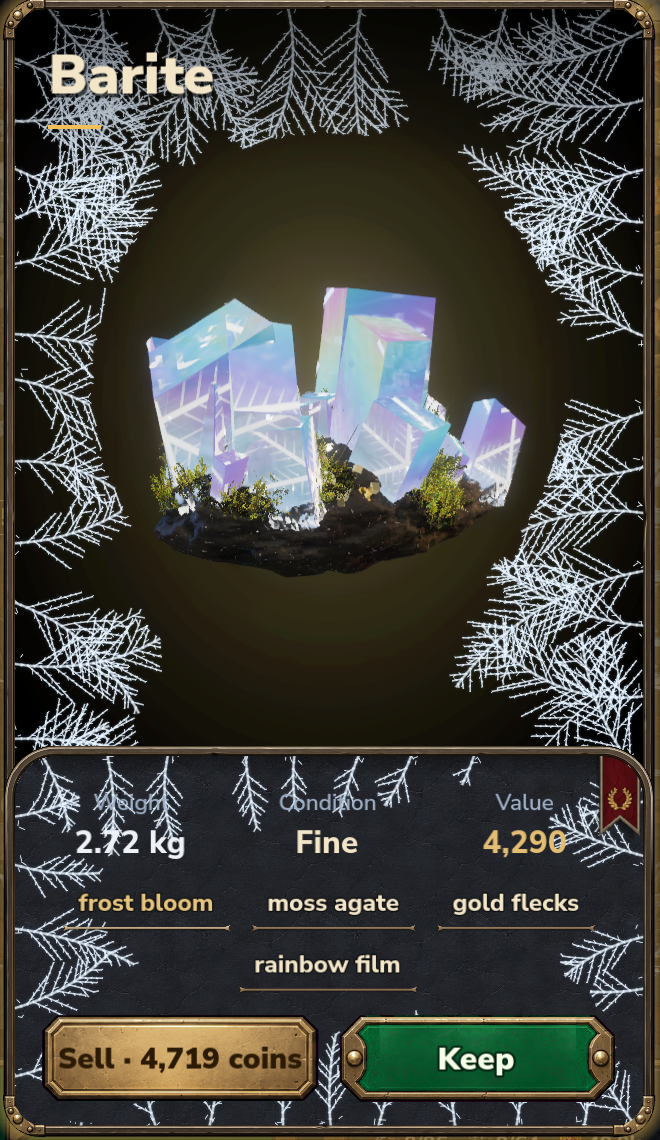
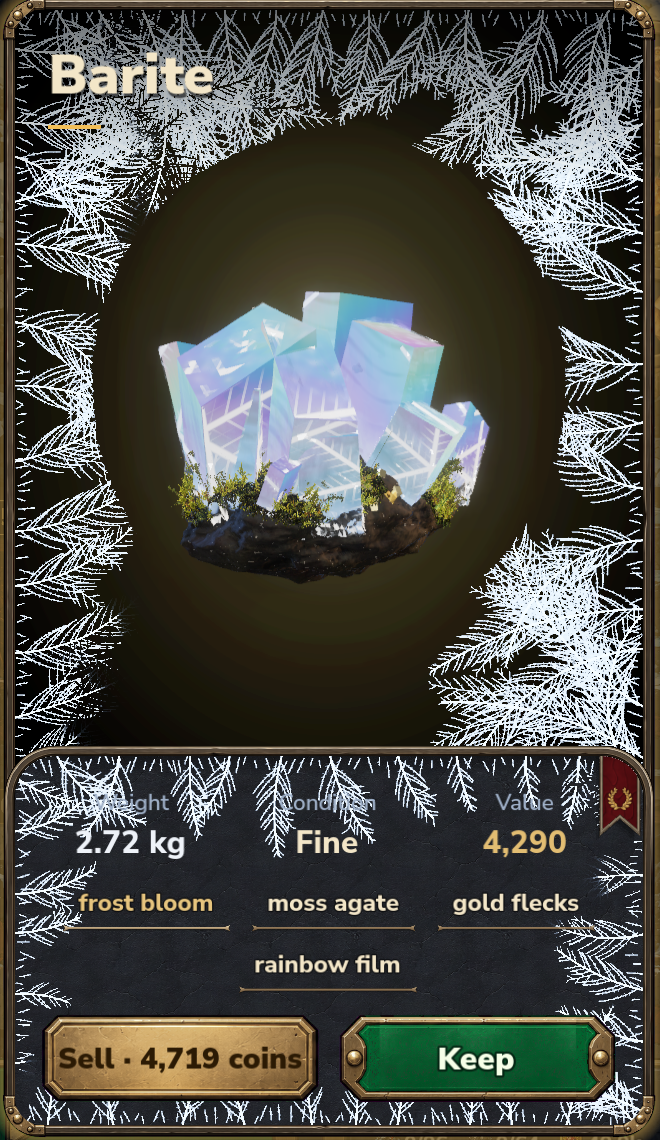
Иней кодом: рисуется в текстуру раз за цикл, проявляется шейдером со свечением — густо, как фото

diff --git a/CLAUDE.md b/CLAUDE.md
@@ -71,7 +71,7 @@
 - Руда и железо рудника — на разных цветах фишек (`AREAS[].ore.iron` ≠ `local`): иначе железа нет вовсе (Proval до 20.11).
 
 ## Что дальше
-- 22.11 (`fixes`), **иней вылезает из камня на карточку** (второе из «легендарный эффект вылезает за карточку»; только украшение — первый заход с замерзающими кнопками и протиранием пальцем пользователь отклонил): у находки с frost bloom (`SpecPolar.frost`, камни Провала) время от времени по основе карточки от латунного обода внутрь нарастают ледяные узоры — по циклу инея на самом камне (мета `frost` = [фаза, период] у корня находки, студия передаёт её дальше — `SpecStudio`): растут, держатся, тают пятнами вместе с ним. Не дальше каймы (`CAP` 0,3): по краям вокруг камня и по краю инфо-панели, камень в чистом овале. Иней только на «основе»: два слоя под содержимым карточки — над картинкой камня под именем, тенью, ✕ и выносками (`SpecView._img` +1), над сланцем панели под надписями и кнопками (на всю панель до её скруглённого края, как сам сланец: контейнер панели клал слой внутрь своих отступов — иней начинался прямоугольником внутри панели, затем панель — своя зона: иней растёт от всех четырёх её сторон по её собственной рамке, кайма уже — 75 pt вместо 150, надписи чистые, а зона камня считается от краёв карточки, как раньше; шейдер `zone` 0/1; до/после — `art/card_frost_panel_ba.png`); Затем узор растёт от рамки к центру (пользователь: фото-иней, проявленный у края, давал островки и листья кончиками к рамке): вместо фото — полоса инея, растущего от нижнего края вверх (GPT `art/frost_card/gen_strip.sh` → `strip_a.png`, в игре `assets/fx/frost_strip.png`, бесшовная по горизонтали), уложена вдоль каждой из четырёх сторон зоны корнями на рамку; рост — открытие полосы от корня к кончикам, длина вдоль стороны волнами, кончики растворяются; таяние — пятнами по всей зоне, сначала внутреннее (по сторонам отдельно оно резало квадратные дыры на стыках сторон; ранний `return` до чтения текстуры тоже давал квадратные обрывы — выбор мипмапа). Глубина полосы 190 pt у камня, 76 на панели. До/после — `art/card_frost_edge_ba.png`. Затем (пользователь: «прямоугольники в паттерне роста», «рост асимметричным»): иней растёт вдоль самих листьев — в зелёном канале полосы карта «дальности по инею от корня» (посчитана по картинке: путь через иней стоит 1, через пустое стекло 4 — к каждому кусочку инея через ближайший лист), фронт идёт по листьям, кончики последними; таяние — тот же рост назад (таяние пятнами шума резало квадратные дыры — ячейки шума); у каждой стороны каждой зоны свой момент начала, скорость и точка вдоль рамки, откуда рост расходится (`sd`, `ss`, `sa`, новые на каждый цикл — `CardFrost._reroll`). Проверка шейдера вне игры — разовый `$TEMP/emu.py`. Ролик — `art/card_frost.mp4`. Затем (пользователь: «нарисовать узоры кодом — больше контроля») иней рисуется кодом: `FrostFronds` (`specimen/frost_fronds.gd`, все ручки — словарь `P`): от точек рамки зоны (через ~34 pt) растёт лист — изогнутый стебель (`curl`), «перо» из частых боковых веточек по очереди в стороны, к кончику короче (`vane_*`), на них зубчики (`barb_*`), изредка боковая ветка сама лист (`sub_*`), у рамки изморозь; у каждого кусочка свой момент появления (старт стороны + путь по инею от корня / скорость), рост и таяние — срез отсортированных отрезков (6 вызовов `draw_multiline`: 3 толщины × ореол и линия); у каждой стороны свой старт, скорость и точка разбега (`late`, `pace`, `spread`), новые листья на каждый цикл; зона камня — от левой, верхней и правой сторон, овал камня свободен. Прежний вид (полоса-фото через шейдер) — ключ `frost_photo`. Цикл считается по кадрам игры (`CardFrost._now`), а не по часам: в записи он раньше проскакивал. Кадр — `art/card_frost_code.png`. узор один на оба, в координатах карточки (`origin`, `rsize`). `CardFrost` (`specimen/card_frost.gd`), шейдер `shaders/card_frost.gdshader`; узоры — фото-иней от GPT (`art/frost_card/gen.sh` → `frost_a.png`), в игре `assets/fx/frost_ferns.png`: R — иней, G — его плотность (крупные массы растут раньше), B — плавный шум фронта и таяния. Ключ `frost_period=S` — цикл S с, с начала: `-- save=uitest quiet area=4 reveal=301 sid=barite kind=crystal legend=frost frost_period=8`. Ролик — `art/card_frost.mp4`.
+- 22.11 (`fixes`), **иней вылезает из камня на карточку** (второе из «легендарный эффект вылезает за карточку»; только украшение — первый заход с замерзающими кнопками и протиранием пальцем пользователь отклонил): у находки с frost bloom (`SpecPolar.frost`, камни Провала) время от времени по основе карточки от латунного обода внутрь нарастают ледяные узоры — по циклу инея на самом камне (мета `frost` = [фаза, период] у корня находки, студия передаёт её дальше — `SpecStudio`): растут, держатся, тают пятнами вместе с ним. Не дальше каймы (`CAP` 0,3): по краям вокруг камня и по краю инфо-панели, камень в чистом овале. Иней только на «основе»: два слоя под содержимым карточки — над картинкой камня под именем, тенью, ✕ и выносками (`SpecView._img` +1), над сланцем панели под надписями и кнопками (на всю панель до её скруглённого края, как сам сланец: контейнер панели клал слой внутрь своих отступов — иней начинался прямоугольником внутри панели, затем панель — своя зона: иней растёт от всех четырёх её сторон по её собственной рамке, кайма уже — 75 pt вместо 150, надписи чистые, а зона камня считается от краёв карточки, как раньше; шейдер `zone` 0/1; до/после — `art/card_frost_panel_ba.png`); Затем узор растёт от рамки к центру (пользователь: фото-иней, проявленный у края, давал островки и листья кончиками к рамке): вместо фото — полоса инея, растущего от нижнего края вверх (GPT `art/frost_card/gen_strip.sh` → `strip_a.png`, в игре `assets/fx/frost_strip.png`, бесшовная по горизонтали), уложена вдоль каждой из четырёх сторон зоны корнями на рамку; рост — открытие полосы от корня к кончикам, длина вдоль стороны волнами, кончики растворяются; таяние — пятнами по всей зоне, сначала внутреннее (по сторонам отдельно оно резало квадратные дыры на стыках сторон; ранний `return` до чтения текстуры тоже давал квадратные обрывы — выбор мипмапа). Глубина полосы 190 pt у камня, 76 на панели. До/после — `art/card_frost_edge_ba.png`. Затем (пользователь: «прямоугольники в паттерне роста», «рост асимметричным»): иней растёт вдоль самих листьев — в зелёном канале полосы карта «дальности по инею от корня» (посчитана по картинке: путь через иней стоит 1, через пустое стекло 4 — к каждому кусочку инея через ближайший лист), фронт идёт по листьям, кончики последними; таяние — тот же рост назад (таяние пятнами шума резало квадратные дыры — ячейки шума); у каждой стороны каждой зоны свой момент начала, скорость и точка вдоль рамки, откуда рост расходится (`sd`, `ss`, `sa`, новые на каждый цикл — `CardFrost._reroll`). Проверка шейдера вне игры — разовый `$TEMP/emu.py`. Ролик — `art/card_frost.mp4`. Затем (пользователь: «нарисовать узоры кодом — больше контроля») иней рисуется кодом: `FrostFronds` (`specimen/frost_fronds.gd`, все ручки — словарь `P`): от точек рамки зоны (через ~34 pt) растёт лист — изогнутый стебель (`curl`), «перо» из частых боковых веточек по очереди в стороны, к кончику короче (`vane_*`), на них зубчики (`barb_*`), изредка боковая ветка сама лист (`sub_*`), у рамки изморозь; у каждого кусочка свой момент появления (старт стороны + путь по инею от корня / скорость), рост и таяние — срез отсортированных отрезков (6 вызовов `draw_multiline`: 3 толщины × ореол и линия); у каждой стороны свой старт, скорость и точка разбега (`late`, `pace`, `spread`), новые листья на каждый цикл; зона камня — от левой, верхней и правой сторон, овал камня свободен. Прежний вид (полоса-фото через шейдер) — ключ `frost_photo`. Цикл считается по кадрам игры (`CardFrost._now`), а не по часам: в записи он раньше проскакивал. Затем (пользователь: «как было с шейдером + GPT, но кодом»): листья рисуются один раз за цикл в текстуру (`SubViewport` в `FrostFronds`, ×3 к точкам; перо `shaders/frost_pen.gdshader` пишет без смешивания: R — яркость инея, G — момент появления 0..1; стебли рисуются последними — держат самый ранний момент на пересечениях), а каждый кадр `shaders/frost_fronds.gdshader` проявляет её по моменту и кладёт мягкое свечение из размытых уровней текстуры — густота не стоит ничего за кадр; веточки — сами маленькие перья с зубчиками, регулярным шагом и углом. Кадр — `art/card_frost_code.png`. узор один на оба, в координатах карточки (`origin`, `rsize`). `CardFrost` (`specimen/card_frost.gd`), шейдер `shaders/card_frost.gdshader`; узоры — фото-иней от GPT (`art/frost_card/gen.sh` → `frost_a.png`), в игре `assets/fx/frost_ferns.png`: R — иней, G — его плотность (крупные массы растут раньше), B — плавный шум фронта и таяния. Ключ `frost_period=S` — цикл S с, с начала: `-- save=uitest quiet area=4 reveal=301 sid=barite kind=crystal legend=frost frost_period=8`. Ролик — `art/card_frost.mp4`.
 - 22.11 (`fixes`), **молния вылезает из камня в карточку** (первое из «легендарный эффект вылезает за карточку», `docs/backlog.md`): у находки с молнией внутри (`SpecBolt`: frozen lightning, living lightning фульгурита, грозовые рога) раз в 8–14 с (первый — через 3,2 с после сборки) разряд бьёт из точки камня в латунный обод карточки, обод «под током»: латунь загорается голубым от места удара, свет бежит по рамке в обе стороны (вниз до высоты кнопок и вверх за угол, `_draw_shine` — отдельный слой света под дугами, с долгим гаснущим хвостом), вся рамка на миг очерчена холодным светом, поверх освещённой латуни скачут короткие дуги между точками обода и ветки в карточку (один отрезок разряда, съезжающий по ободу, отклонён: «ползущая голубая колбаса», и на рамке не было отблесков), затем заряд прыгает на ближнюю кнопку (та мигает холодным светом), с неё — на цену: цифры Value полсекунды скачут и встают обратно (цена и кнопки не меняются). `CardBolt` (`specimen/card_bolt.gd`, узел поверх карточки; рисуется как молния самого камня: ленты с текстурой нитей разряда и ветвлением — `shaders/card_bolt.gdshader`, плоская копия шейдера `SpecBolt`, цвет — молнии камня; первый заход ломаными линиями отклонён: «нарисовано в пейнте», до/после — `art/card_bolt_ba.mp4`; вешает `Reveal.stone_card` после сборки камня), молния камня бьёт в тот же миг, звук `card_arc` (запись огней святого Эльма), вибрация. Ключ `card_bolt=S` — первый разряд через S с после сборки, дальше каждые 3 с: `-- save=uitest quiet area=0 reveal=301 sid=amethyst kind=crystal legend=lightning card_bolt=3`. Затем «больше молний и что-нибудь прикольное»: второй удар из камня в противоположную сторону рамки, в 60% — третий в верхнюю планку, два повторных разряда по первому каналу; дуг по ободу 9 и по верхней планке 5; с кнопки заряд перескакивает на остальные кнопки карточки (мигают), с цены — на первую плашку гена (мигает); заклёпки в углах рамки вспыхивают, имя камня дважды мигает голубым (`_arcs`, `_glints`, `_blink`). Обе стороны рамки получают поровну (пользователь: «тот же объём молний влево»): второй удар через 0,09 с бьёт в противоположную сторону и ведёт себя как первый — свой свет на латуни вниз и вверх за угол, свои дуги по ободу (`_rim_arcs` для обеих сторон), свой прыжок на ближнюю к нему кнопку (`_rim2/_down2/_up2`, `SIDE2`); свет по верхней планке с двух сторон сходится к середине. Но не зеркально (пользователь: «асимметрично, объём уже неплохой»): при каждом разряде второй удар бьёт на своей высоте (не ближе 90 pt к высоте первого), со своей задержкой 0,07–0,26 с (`_d2`), его заряд бежит со своей скоростью ×0,6–1,45 (`_v2`), у каждой стороны своё число дуг 6–12 (`_n1/_n2`), свой вылет веток в карточку ×0,7–1,7 и своя длина света вверх по рамке 110–360 pt. Затем — одно целое с молнией камня (своя оценка 6,5/10: «накладка поверх карточки»): перед разрядом 0,6 с нарастание — молния в камне трещит чаще и светлеет, сам удар ждёт, с камня сыплются искры, заклёпки рамки тлеют (`SpecBolt.rush`, `CardBolt._charging`); затем камень бьёт и выскакивает из себя наверняка (`SpecBolt.strike_out` → `leap`), а разряд на карточке начинается там, где кончился этот выскок, и продолжает его направление до рамки (наклон ограничен −0,55…0,9 — иначе всё било в верхний угол); яркость главного удара и света на латуни — та же вспышка, что в кристалле (`SpecBolt.flash`: камень бьёт снова — рамка вспыхивает с ним); фронт заряда освещает карточку рядом; цена — последняя: дольше (0,95 с), с прыжком цифр, ореолом и вторым треском. Грозовые рога черепов (`SpecBeastFx.HornArc`) тоже: перед выскоком дуга между рогами трещит чаще, затем с кончика одного рога бьёт разряд наружу, от другого рога (`leap` в `HornArc._strike`), и карточка продолжает его; вспышка — общая (`HornArc` зовёт `SpecBolt._process`). Ролик — `art/card_bolt_skull.mp4` (`-- reveal=301 sid=amethyst kind=crystal form=skull beast=ram legend=thunder card_bolt=4`). Звук (пользователь: «не хватает ударов грома»): нарастание — треск искр высоко (`bolt_build`), удар — гром бухты вблизи (`bolt_crack`, раскат ~7 с) и сильнее вибрация, второй удар — свой треск (`card_arc`), заряд по ободу — искры (`bolt_rim`), цена — высокий треск (`bolt_price`). **Цена меняется и остаётся** (по просьбе): каждый разряд кончается новой ценой в пределах ±20% от цены находки до первой молнии (`CardBolt.PRICE_SWING`, `value0` в записи камня; цена, изменённая иначе — огранка, вес — становится новой основой, `bolt_v`), цифры скачут и встают уже на неё, вверх — зелёная вспышка и звон монет (`price_up`), вниз — красная и глухой стук (`price_down`); кнопка Sell пересчитывается, камень инвентаря сохраняется (`Save.persist`), у новой находки Keep уносит новую цену; закрыл карточку во время скачущих цифр — цена та, на которой они встали бы. **Удар током:** пока разряд на карточке и 1,6 с после, тап по карточке даёт искру от ближней стороны обода в палец, треск и вибрацию (`CardBolt._input`, сам тап идёт дальше по назначению). Ролик — `art/card_bolt.mp4` (в конце тап), до/после — `art/card_bolt_ba.mp4`. Звук не прослушан; у проглоченной находки (карточка без цены) эффекта нет.
 - 22.11 (`fixes`), **ачивка What Did You Expect?** (по просьбе: ироничная, за то, что вытряс из камня слишком много пыли; название — пользователя, «И чего ты ждал?»; первое, Clean Freak, заменено): секретная (вкладка Secrets, скрыта до выполнения), «Fifteen shakes. Still a rock.», 50 монет. Условие — 15 встрясок, выбивших пыль, у одной открытой карточки (`SpecView._shakes`, `SHAKES_TOO_MANY`; событие `duster`). Значок GPT — метёлка над кристаллом (`gen_parts.sh … icons12`, `cut_parts.py` → `assets/awards/duster.png`, запасной `duster_cloud.png`). Кадр — `art/award_clean_freak.png`. Порог 15 — наугад. Заодно на экране ачивок: слова строки (название и подпись) занимают и пустые места карточек — у строки с одной карточкой свободны два места (`Awards`, `free`); было: название переносилось, подпись обрезалась многоточием при пустом месте справа. До/после — `art/award_title_line_ba.png`.
 - 22.11 (`fixes`), **чёрный прямоугольник на миниатюре инвентаря** (скрин: азурит, за кристаллами чёрный квадрат с зелёным светом): ореол светящейся мицены (`fungi_halo.gdshader`) — квадрат, добавляемый к картинке (`blend_add`), без своей прозрачности: на прозрачной картинке плитки он делал весь квадрат непрозрачным — чёрный с зелёным пятном (на карточке с фоном не видно). Замер — `tests/halo_alpha.gd` (`godot --path godot -s res://tests/halo_alpha.gd [-- save=user://x.png]`: альфа квадрата на прозрачной картинке у угла было 1, стало 0). Сила света теперь в ALPHA, цвет на карточке тот же. Так же исправлены другие добавляемые 3D-шейдеры без своей прозрачности — пузырьки (`bubble`), блики воды (`caustics`), сияние (`borealis`), призрак зверя (`beast_ghost`), фантомы друзы (`sprout_ghost`): на миниатюрах тоже были бы чёрные пятна. На прозрачной плитке свечение теперь слабее, чем на карточке. До/после — `art/mycena_thumb_ba.png`. Миниатюры, уже сохранённые на телефоне (`user://thumbs`), обновятся с новой сборкой.
